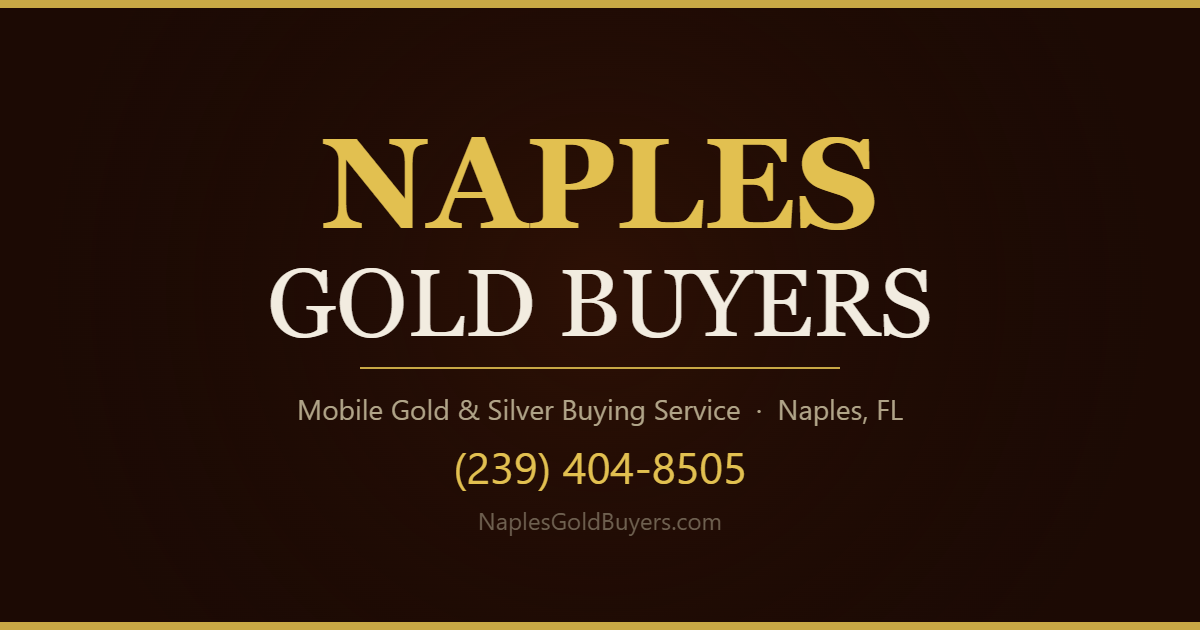
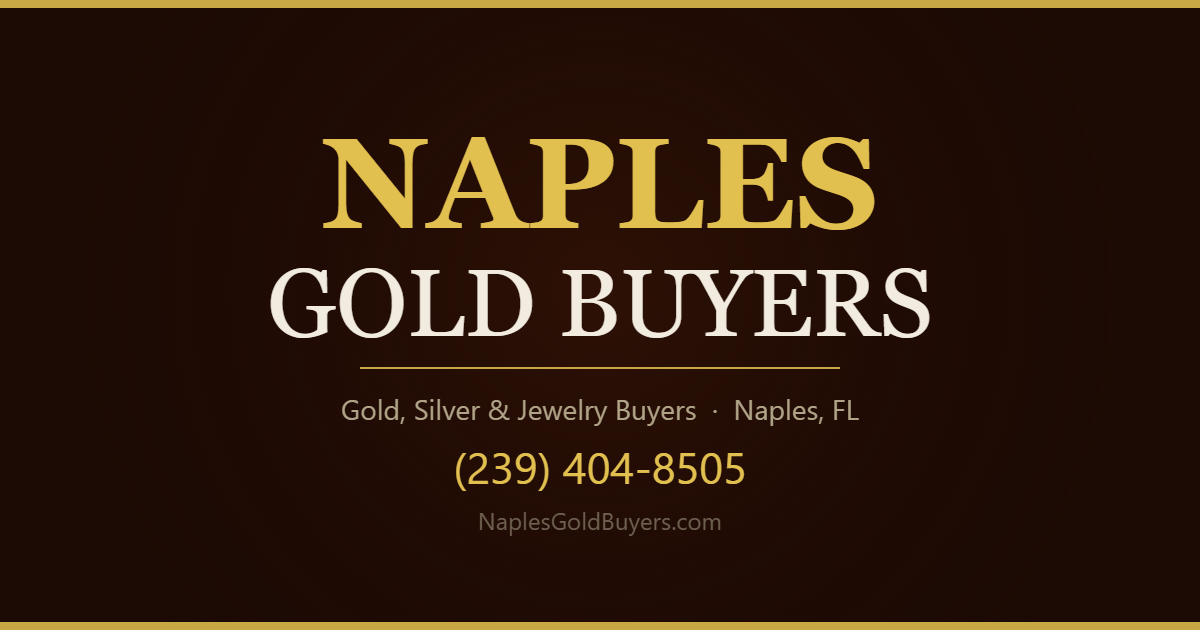
k

Changed region(s): [[0.2467, 0.6333, 0.74, 0.6937]]

diff --git a/og-image-generator.html b/og-image-generator.html
@@ -60,7 +60,7 @@ function draw() {
   // Tagline
   x.fillStyle = '#b0a488';
   x.font = '28px "Segoe UI", Arial, sans-serif';
-  x.fillText('Mobile Gold & Silver Buying Service  ·  Naples, FL', 600, 420);
+  x.fillText('Gold, Silver & Jewelry Buyers  ·  Naples, FL', 600, 420);
 
   // Phone
   x.fillStyle = '#e2c050';
